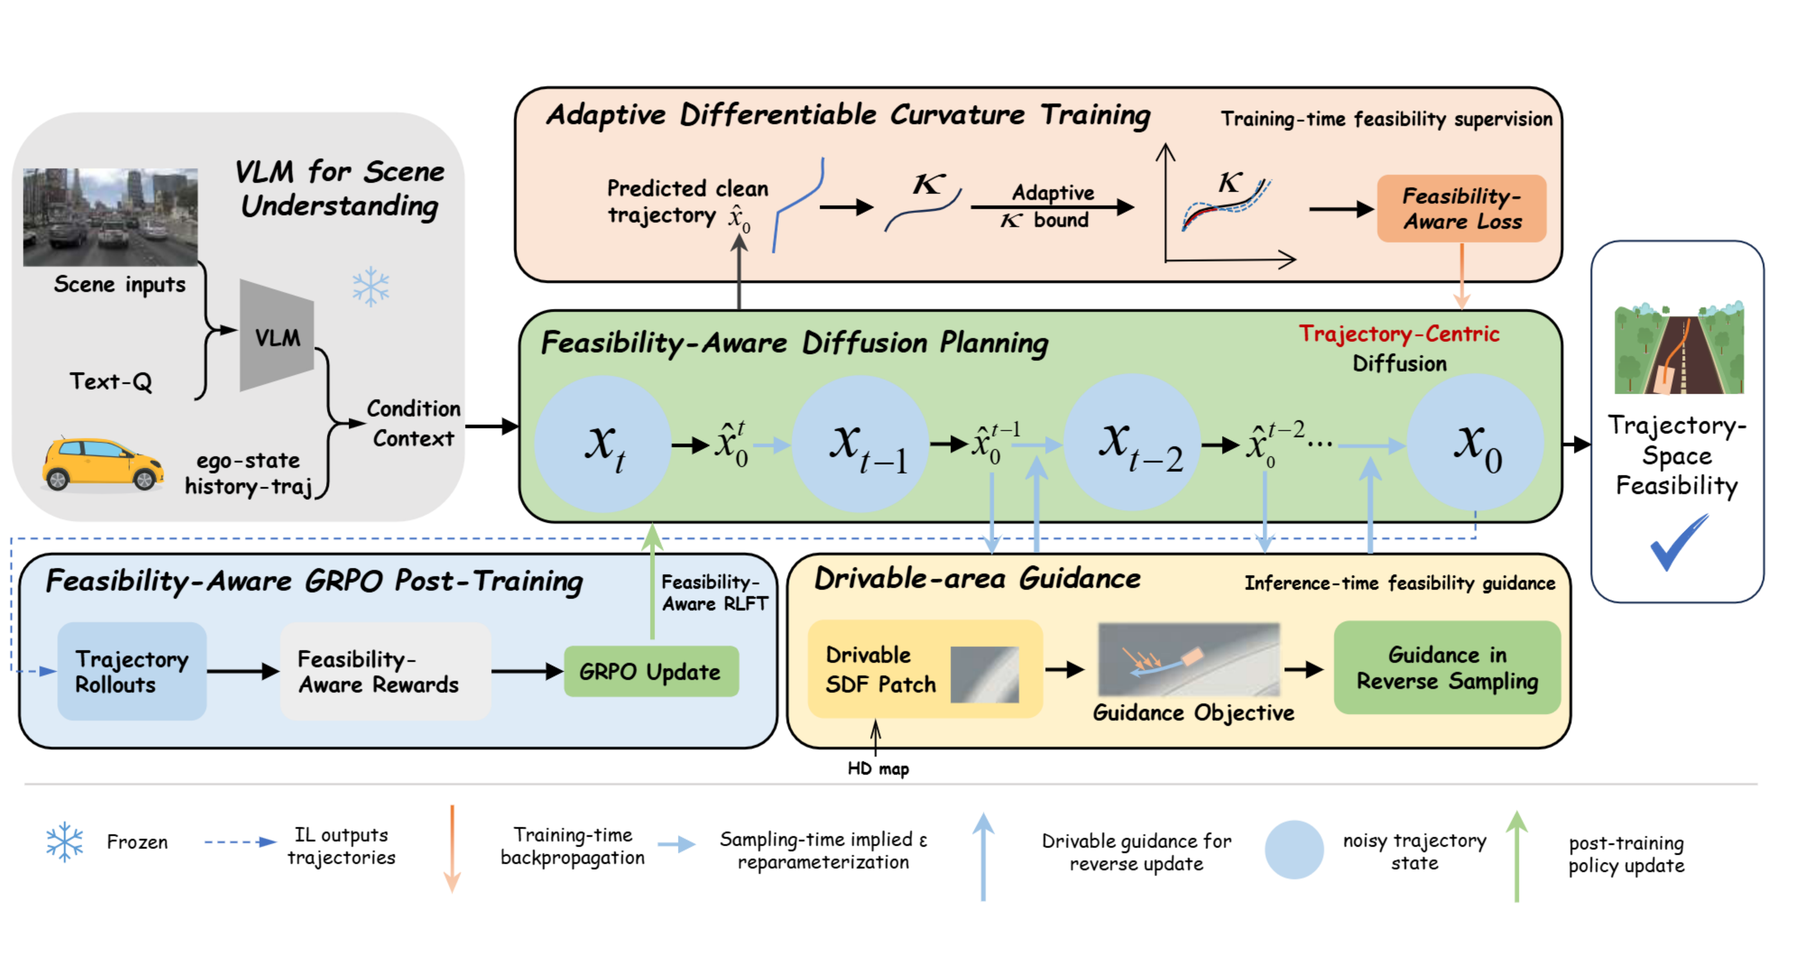
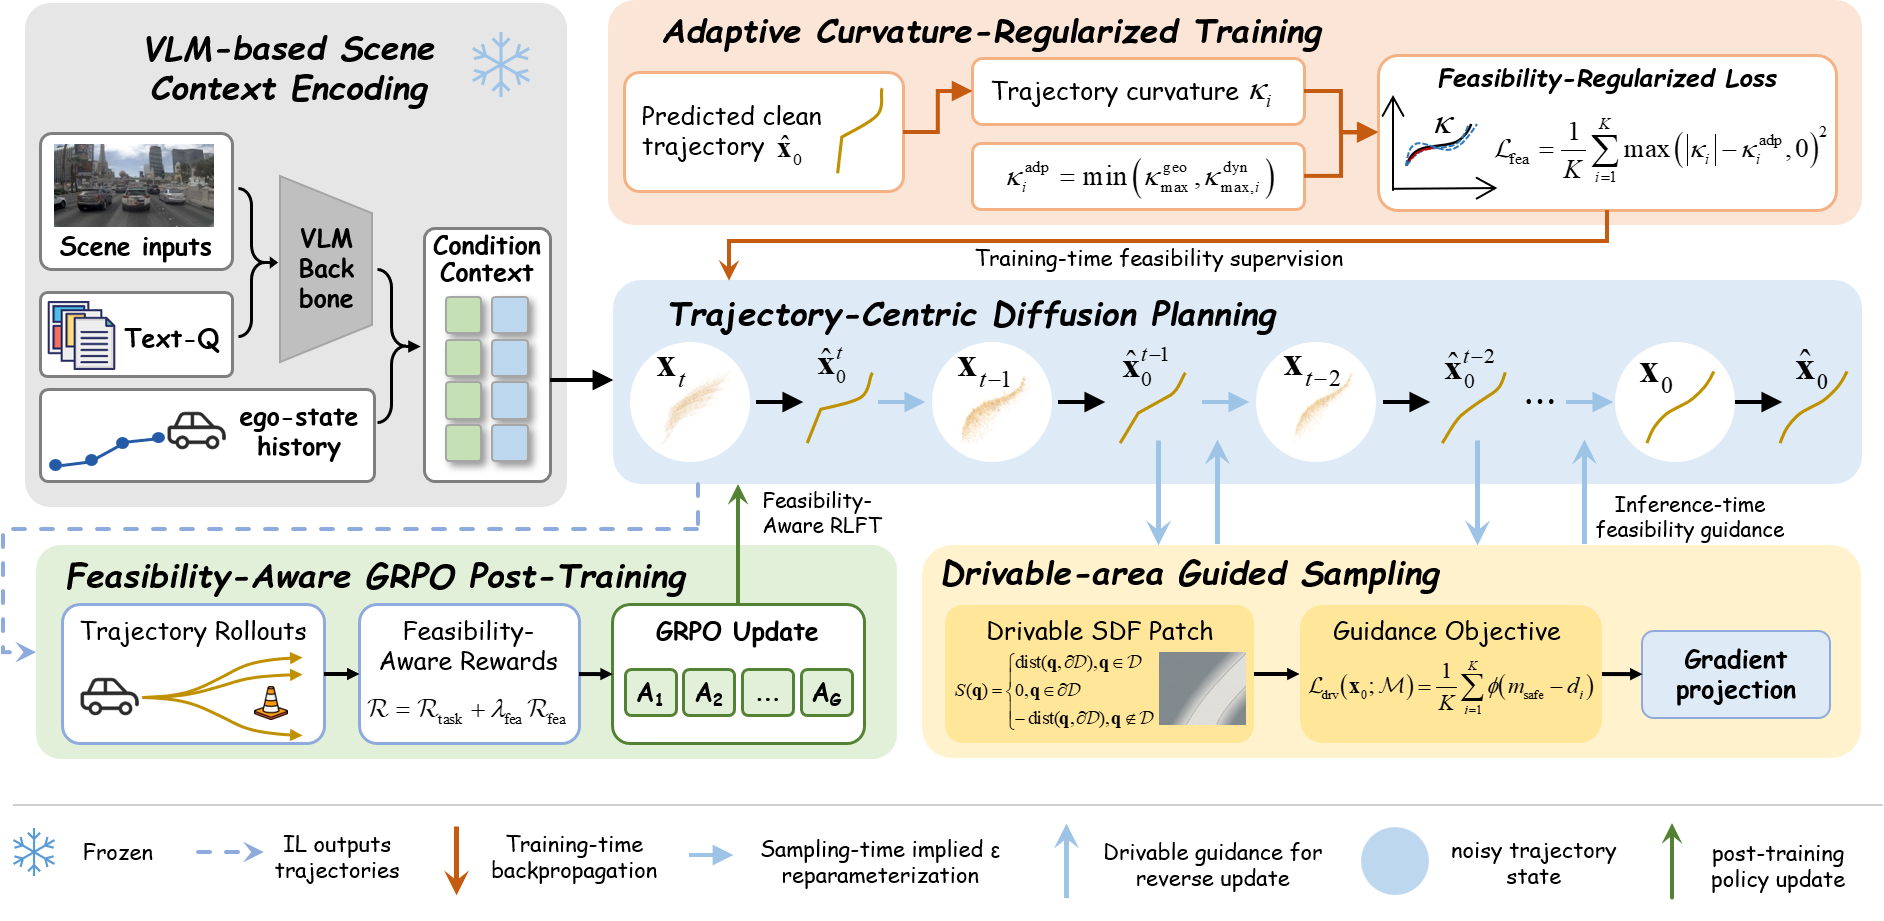
update fig

diff --git a/index.html b/index.html
@@ -96,9 +96,9 @@
             <span class="author-block">
               Ming Liu<sup>1</sup>,</span>
             <span class="author-block">
-              <a href="https://scholar.google.com/citations?user=a34GvQoAAAAJ&hl=en">Jia Hu</a><sup>1</sup>,</span>
+              <a href="https://scholar.google.com/citations?user=a34GvQoAAAAJ&hl=en">Jia Hu</a><sup>2</sup>,</span>
             <span class="author-block">
-              <a href="https://scholar.google.com/citations?user=UKVs2CEAAAAJ&hl=en">Chen Lv</a><sup>2</sup>,</span>
+              <a href="https://scholar.google.com/citations?user=UKVs2CEAAAAJ&hl=en">Chen Lv</a><sup>3</sup>,</span>
             <!-- <span class="author-block">
               Lu Xiong<sup>1</sup>,</span> -->
             <span class="author-block">
@@ -106,8 +106,9 @@
             </div>
 
           <div class="is-size-5 publication-authors">
-            <span class="author-block"><sup>1</sup>Tongji University,</span>
-            <span class="author-block"><sup>2</sup>Nanyang Technological University</span>
+            <span class="author-block"><sup>1</sup>College of Automotive and Energy Engineering, Tongji University, Shanghai, 201804, China</span>
+            <span class="author-block"><sup>2</sup>College of Transportation Engineering, Tongji University, Shanghai, 201804, China</span>
+            <span class="author-block"><sup>3</sup>School of Mechanical and Aerospace Engineering, Nanyang Technological University, 639798, Singapore</span>
           </div>
           <div class="is-size-6">
             <span class="author-block">† Equal contribution</span>
@@ -317,7 +318,7 @@
 <section class="section">
   <div class="container is-max-desktop">
 
-    <h2 class="title is-3 has-text-centered">Results</h2>
+    <h2 class="title is-3 has-text-centered">Results Comparison</h2>
 
     <div class="columns is-centered">
       <div class="column is-full has-text-centered">
@@ -477,7 +478,7 @@
 <section class="section">
   <div class="container is-max-desktop">
 
-    <h2 class="title is-3 has-text-centered">Results Comparison</h2>
+    <h2 class="title is-3 has-text-centered">Case Visualization</h2>
 
     <!-- ===== Row 1 ===== -->
     <div class="columns is-vcentered">
